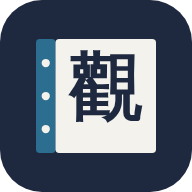
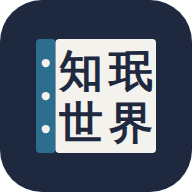
Add files via upload

Changed region(s): [[0.2812, 0.25, 0.8125, 0.75]]

diff --git a/index.html b/index.html
@@ -3,13 +3,13 @@
 <head>
 <meta charset="UTF-8">
 <meta name="viewport" content="width=device-width, initial-scale=1, viewport-fit=cover">
-<title>我的觀點紀錄</title>
+<title>和지민一起做記錄</title>
 <link rel="manifest" href="./manifest.webmanifest">
 <meta name="theme-color" content="#EDF0F3" media="(prefers-color-scheme: light)">
 <meta name="theme-color" content="#151A24" media="(prefers-color-scheme: dark)">
 <meta name="apple-mobile-web-app-capable" content="yes">
 <meta name="apple-mobile-web-app-status-bar-style" content="default">
-<meta name="apple-mobile-web-app-title" content="觀點紀錄">
+<meta name="apple-mobile-web-app-title" content="知珉世界">
 <link rel="apple-touch-icon" href="./apple-touch-icon.png">
 <link rel="icon" href="./icon-192.png">
 <link rel="preconnect" href="https://fonts.googleapis.com">
@@ -206,8 +206,8 @@ textarea.in{min-height:110px;resize:vertical}
 <div class="wrap">
   <header class="top">
     <div>
-      <h1>我的觀點紀錄</h1>
-      <div class="sub" id="sub">載入中…</div>
+      <h1>和지민一起做記錄</h1>
+      <div class="sub" id="sub">知珉的美貌，民族的榮耀</div>
     </div>
     <div class="stat"><b id="total">0</b>筆紀錄<br><button class="btn" id="backup" style="margin-top:6px;padding:4px 10px;font-size:.82rem">備份</button></div>
   </header>
@@ -289,7 +289,7 @@ const store = {
 };
 function loaded(){
   state.ready = true;
-  $('#sub').textContent = store.mode==='db' ? '紀錄已同步到你的帳號，只有你看得到' : '紀錄只存在你這台裝置的瀏覽器，別人看不到';
+  $('#sub').textContent = '知珉的美貌，民族的榮耀';
   render();
 }
 const init = () => {

diff --git a/sw.js b/sw.js
@@ -1,4 +1,4 @@
-const VERSION = 'v1';
+const VERSION = 'v2';
 const CACHE = 'povlog-' + VERSION;
 const ASSETS = [
   './',
